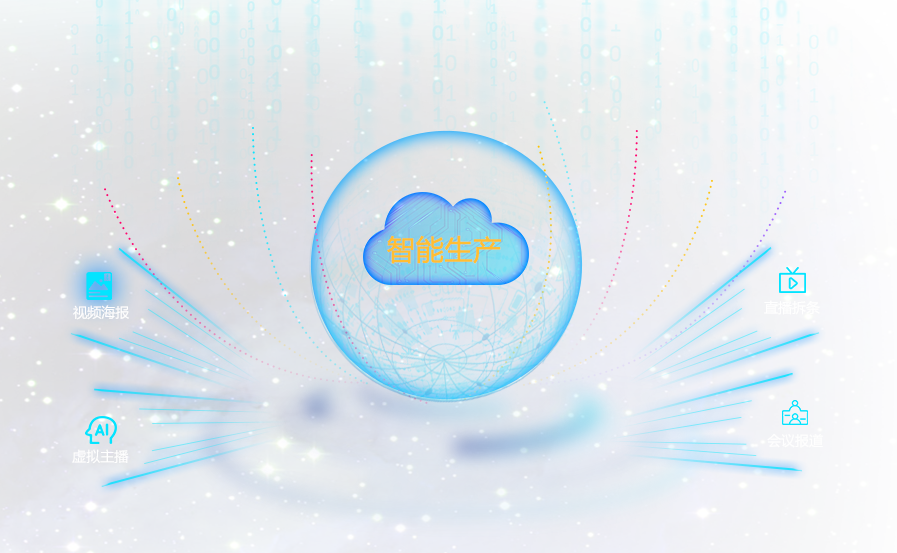
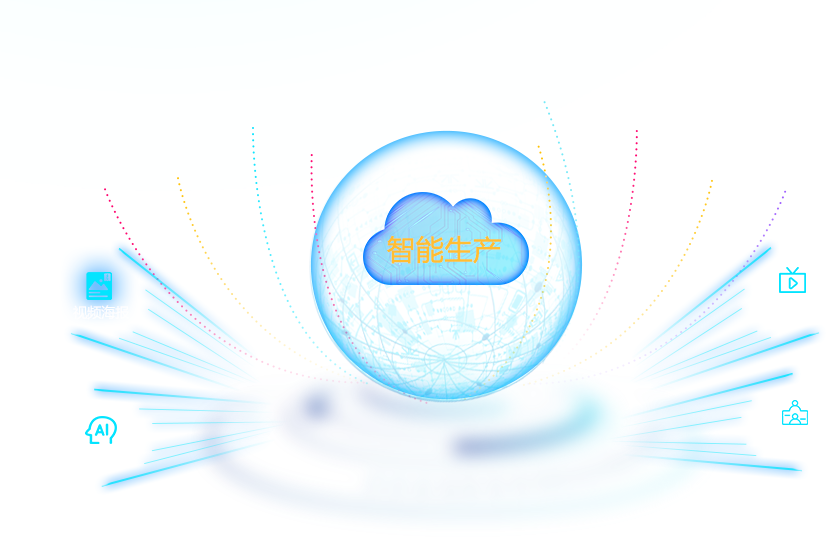
12312

diff --git a/assets/admin-tools/css/BigScreen-Style.css b/assets/admin-tools/css/BigScreen-Style.css
@@ -1195,6 +1195,18 @@ html{
     }
 }
 
+@keyframes fw3go{
+    0%{
+        transform:translateY(5px);
+    }
+    50%{
+        transform:translateY(-5px);
+    }
+    100%{
+        transform:translateY(5px);
+    }
+}
+
 @keyframes zhuany{
     0%{
         transform:rotateY(0deg);
@@ -1209,13 +1221,107 @@ html{
 
 .znBox{
     position: absolute;
-    right: 29.7vw;
-    top: 60.12vh;
-    width: 22.49vw;
+    right: 31.1vw;
+    top: 58.92vh;
+    width: 21.29vw;
     height: 24.57vh;
-    background-image: url(../../img/zn.jpg);
+    background-image: url(../../img/znsc.png);
     background-size: cover;
 }
+.znY{
+    position: absolute;
+    right: 16.8vw;
+    top: 10vh;
+    width: 3.9vw;
+    height: 7vh;
+    background-image: url(../../img/circle.png);
+    background-size: cover;
+    opacity: 1;
+
+    animation: zhuan 16s linear infinite;
+}
+
+.znY2{
+    right: 16.8vw;
+    top: 16.7vh;
+}
+
+.znY3{
+    right: -1.2vw;
+    top: 16vh;
+}
+
+.znY4{
+    right: -1.1vw;
+    top: 9.8vh;
+}
+
+.znX{
+    position: absolute;
+    right: 17.9vw;
+    top: 5.4vh;
+    width: 1.4vw;
+    height: 3.6vh;
+    background-image: url(../../img/zn01.png);
+    background-size: cover;
+    opacity: 1;
+    /*animation: zhuan 16s linear infinite;*/
+}
+
+.znX1{
+    animation: fw3go 8s linear infinite;
+}
+
+.znX2{
+    right: 16.1vw;
+    top: 4.4vh;
+    background-image: url(../../img/zn02.png);
+    animation: fw3go 8s linear 0.5s infinite;
+    transform:translateY(5px);
+}
+
+.znX3{
+    right: 14.1vw;
+    top: 2.3vh;
+    animation: fw3go 8s linear 1s infinite;
+    transform:translateY(5px);
+}
+
+.znX4{
+    width: 1.8vw;
+    right: 6.3vw;
+    top: 1.8vh;
+    background-image: url(../../img/zn04.png);
+    animation: fw3go 8s linear 1.5s infinite;
+    transform:translateY(5px);
+}
+
+.znX5{
+    width: 1.6vw;
+    right: 4.1vw;
+    top: 2.4vh;
+    background-image: url(../../img/zn05.png);
+    animation: fw3go 8s linear 2s infinite;
+    transform:translateY(5px);
+}
+
+.znX6{
+    right: 2.2vw;
+    top: 4.7vh;
+    background-image: url(../../img/zn06.png);
+    animation: fw3go 8s linear 2.5s infinite;
+    transform:translateY(5px);
+}
+
+.znX7{
+    width: 1.7vw;
+    right: 0.1vw;
+    top: 5.3vh;
+    background-image: url(../../img/zn07.png);
+    animation: fw3go 8s linear 3s infinite;
+    transform:translateY(5px);
+}
+
 .mpText{
     position: relative;
 }
@@ -1240,4 +1346,42 @@ html{
 .mpBor3 .mpText i{
     background: url("../../img/mb3.png");
     background-size: 100% 100%;
+}
+
+.pan3Box{
+    transform: rotateX(80deg);
+    position: absolute;
+    left: 2.6vw;
+    top: -6.7vh;
+    z-index: 10;
+    width: 26.375vw;
+}
+
+.pan3{
+    background-image: url(../../img/circle1.png);
+    background-repeat: no-repeat;
+    background-position: center;
+    background-size: contain;
+    width: 17.375vw;
+    height: 58.3vh;
+    animation: zhuan 8s linear infinite;
+}
+
+.pan2Box{
+    transform: rotateX(80deg);
+    position: absolute;
+    left: 2.8vw;
+    top: -8.3vh;
+    z-index: 10;
+    width: 26.375vw;
+}
+
+.pan2{
+    background-image: url(../../img/circle2.png);
+    background-repeat: no-repeat;
+    background-position: center;
+    background-size: contain;
+    width: 17.375vw;
+    height: 58.3vh;
+    animation: zhuan 8s linear infinite;
 }

diff --git a/BigScreen.html b/BigScreen.html
@@ -692,9 +692,6 @@
                         </div>
                     </div>
                 </div>
-                <div class="short-r">
-
-                </div>
             </div>
         </div>
 
@@ -1066,8 +1063,8 @@
                                 <div class="qkBg">
                                         <div class="qkBlock qkBlock1">
                                             <div class="qkText">
-                                                <h1 class="list-text">文字稿件test</h1>
-                                                <h2 class="list-text">资源ID:1234567894</h2>
+                                                <h1>文字稿件test</h1>
+                                                <h2>资源ID:1234567894</h2>
                                             </div>
                                         </div>
                                         <div class="qkBor qkBor1">
@@ -1441,7 +1438,25 @@
             </div>
         </div>
 
-        <div class="znBox"></div>
+        <div class="znBox">
+            <div class="znY znY1"></div>
+            <div class="znY znY2"></div>
+            <div class="znY znY3"></div>
+            <div class="znY znY4"></div>
+            <div class="znX znX1"></div>
+            <div class="znX znX2"></div>
+            <div class="znX znX3"></div>
+            <div class="znX znX4"></div>
+            <div class="znX znX5"></div>
+            <div class="znX znX6"></div>
+            <div class="znX znX7"></div>
+            <div class="pan3Box">
+                <div class="pan3"></div>
+            </div>
+            <div class="pan2Box">
+                <div class="pan2"></div>
+            </div>
+        </div>
 
     </div>
 

diff --git a/assets/admin-tools/css/new.css b/assets/admin-tools/css/new.css
@@ -276,7 +276,7 @@ html{
 }
 .ShortVideo{
     position: absolute;
-    width: 42vw;
+    width: 17vw;
     left: 29vw;
     height: 26vh;
     bottom: 17vh;
